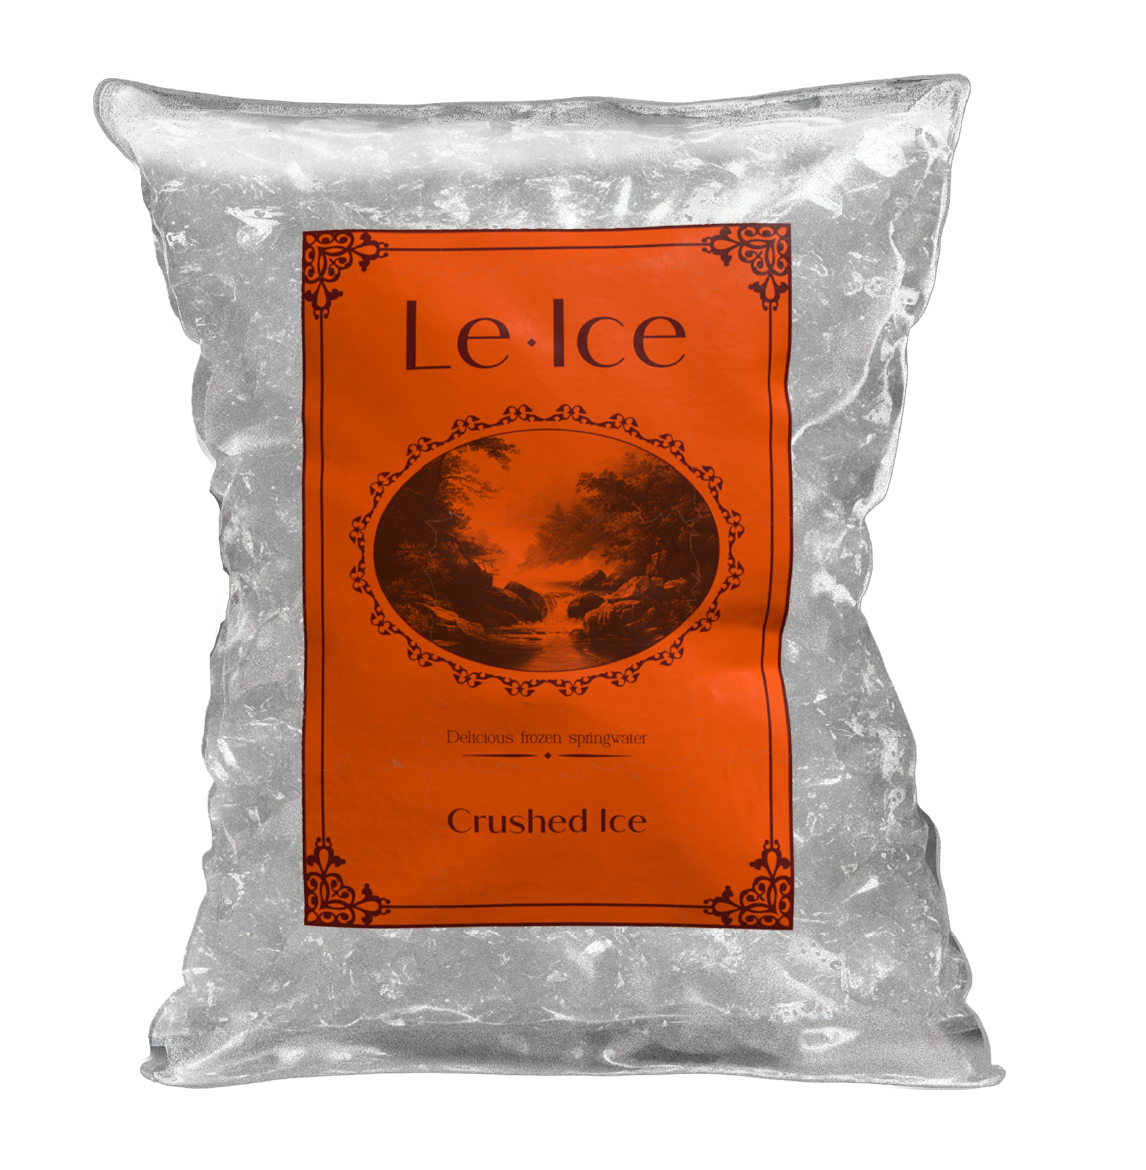
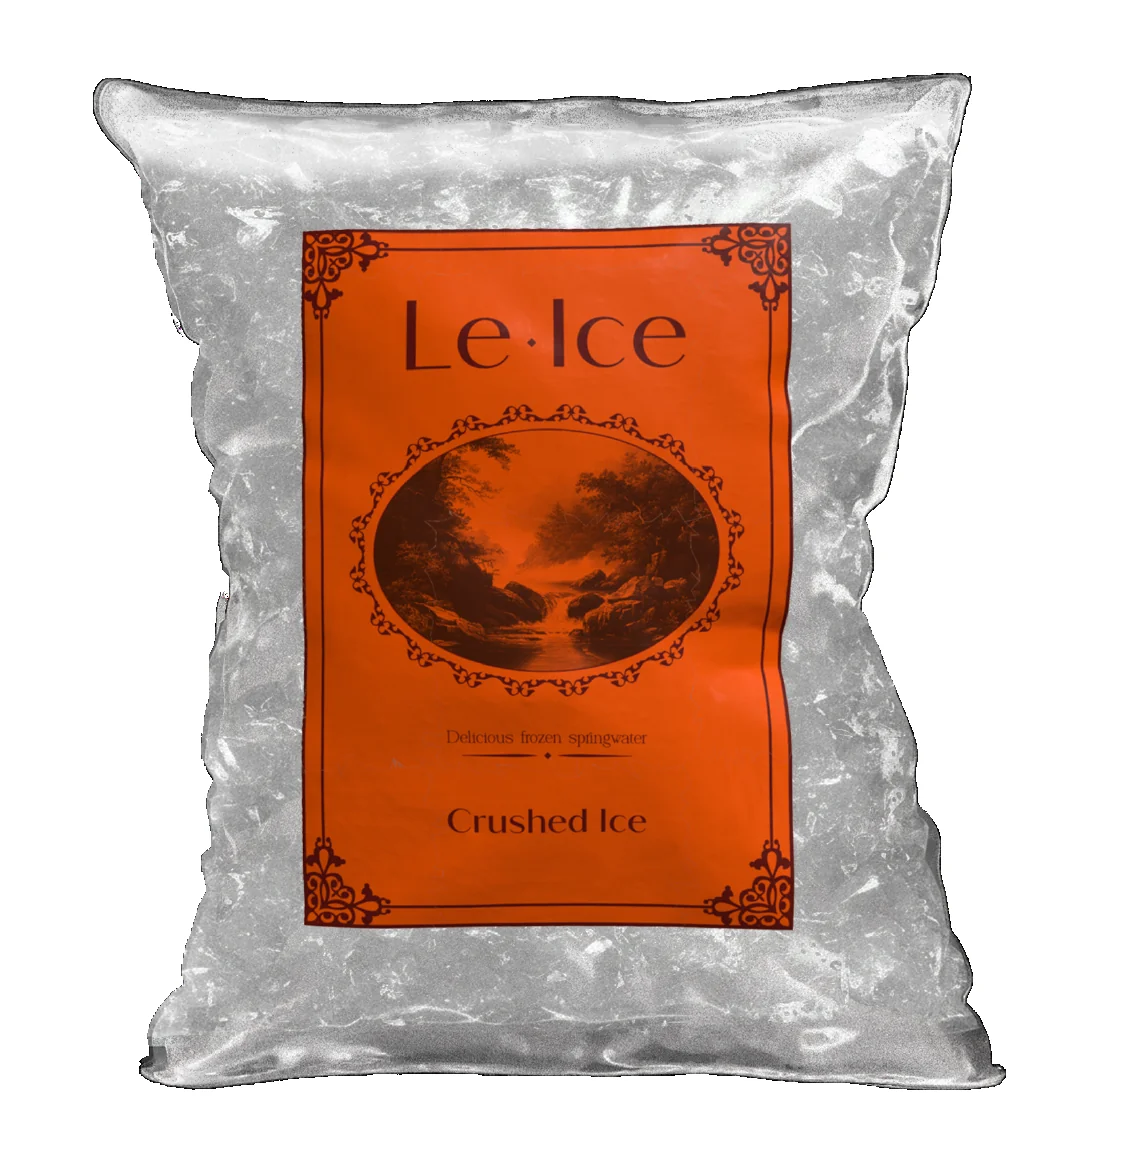
Compress Le Ice images 97% (63MB → 1.7MB) + lazy loading

diff --git a/project-4.html b/project-4.html
@@ -8,6 +8,12 @@
   <meta name="description" content="Le Ice — brand identity and packaging design project by Anders." />
   <link rel="preconnect" href="https://fonts.googleapis.com" />
   <link href="https://fonts.googleapis.com/css2?family=Caveat:wght@600&display=swap" rel="stylesheet" />
+  <link rel="preload" href="images/Le ice portfolio/Pink front.webp" as="image" />
+  <link rel="preload" href="images/Le ice portfolio/pink bagfra.webp" as="image" />
+  <link rel="preload" href="images/Le ice portfolio/Orange front.webp" as="image" />
+  <link rel="preload" href="images/Le ice portfolio/orange bagfra.webp" as="image" />
+  <link rel="preload" href="images/Le ice portfolio/Gr%C3%B8n front.webp" as="image" />
+  <link rel="preload" href="images/Le ice portfolio/gr%C3%B8n bagfra.webp" as="image" />
   <style>
     * { margin: 0; padding: 0; box-sizing: border-box; }
     body { background: #fff; font-family: sans-serif; }
@@ -431,9 +437,9 @@
 
       <!-- Backdrop cropped 20% top & bottom -->
       <div class="backdrop-container">
-        <img class="including-img" src="images/Le ice portfolio/including.webp" alt="" />
+        <img class="including-img" src="images/Le ice portfolio/including.webp" alt="" loading="lazy" />
         <div class="backdrop-wrap">
-          <img src="images/Le ice portfolio/alle le tongs is backdrop.webp" alt="Le Ice backdrop" />
+          <img src="images/Le ice portfolio/alle le tongs is backdrop.webp" alt="Le Ice backdrop" loading="lazy" />
         </div>
       </div>
 
@@ -441,18 +447,18 @@
       <div class="aldi-section">
         <div class="aldi-left">
           <span class="aldi-seen-text">as seen in</span>
-          <img class="aldi-arrow" src="images/Le ice portfolio/arrow.webp" alt="" />
+          <img class="aldi-arrow" src="images/Le ice portfolio/arrow.webp" alt="" loading="lazy" />
         </div>
         <div class="aldi-right">
           <div class="aldi-logo-wrap" id="aldiLogoWrap">
-            <img src="images/Le ice portfolio/Aldi-Logo.webp" alt="ALDI" />
+            <img src="images/Le ice portfolio/Aldi-Logo.webp" alt="ALDI" loading="lazy" />
           </div>
         </div>
       </div>
 
       <!-- Samlet packshot -->
       <div class="packshot-section">
-        <img src="images/Le ice portfolio/samlet packshot.webp" alt="Le Ice packshot" />
+        <img src="images/Le ice portfolio/samlet packshot.webp" alt="Le Ice packshot" loading="lazy" />
       </div>
 
     </main>
@@ -475,7 +481,7 @@
   <div class="lightbox" id="aldiLightbox">
     <span class="lightbox-close" id="aldiClose">&times;</span>
     <div class="lightbox-inner">
-      <img src="images/Le ice portfolio/Le ice aldi tilbudsavis.webp" alt="ALDI tilbudsavis" />
+      <img src="images/Le ice portfolio/Le ice aldi tilbudsavis.webp" alt="ALDI tilbudsavis" loading="lazy" />
     </div>
   </div>
 
